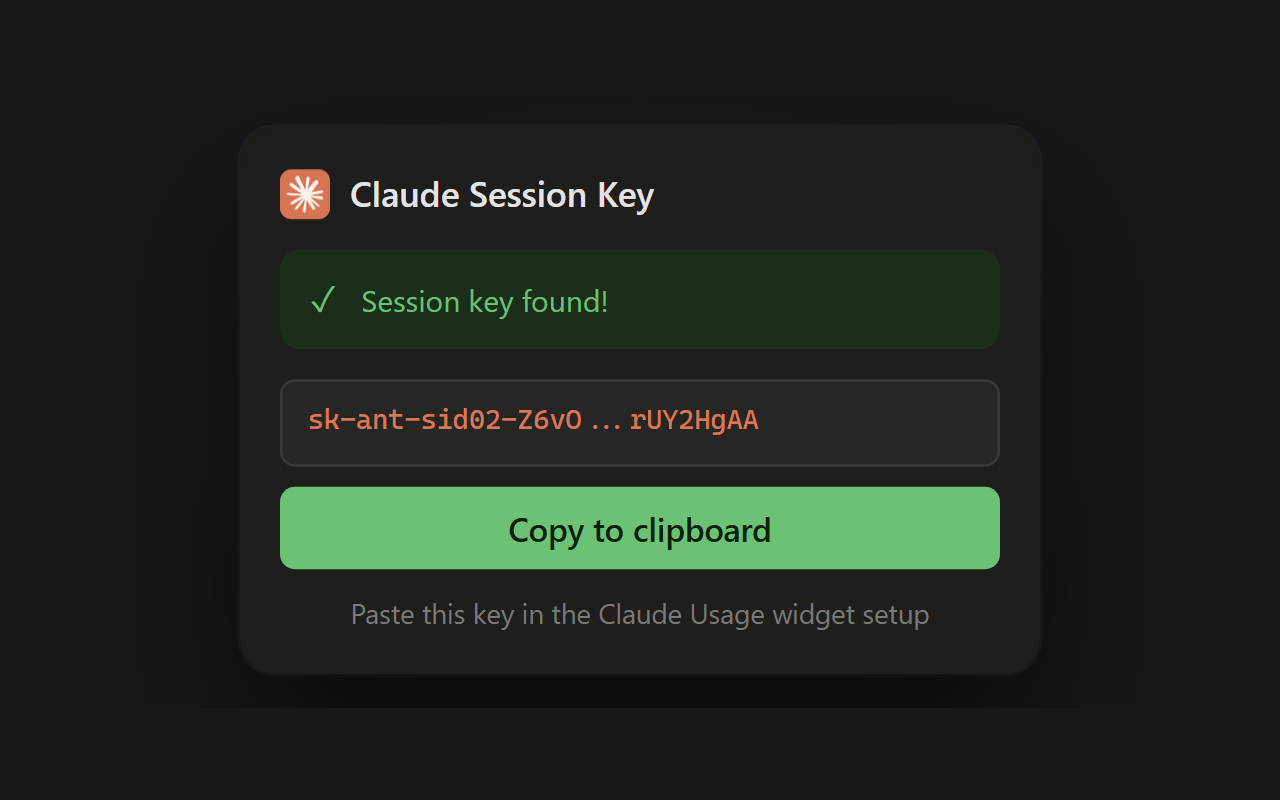
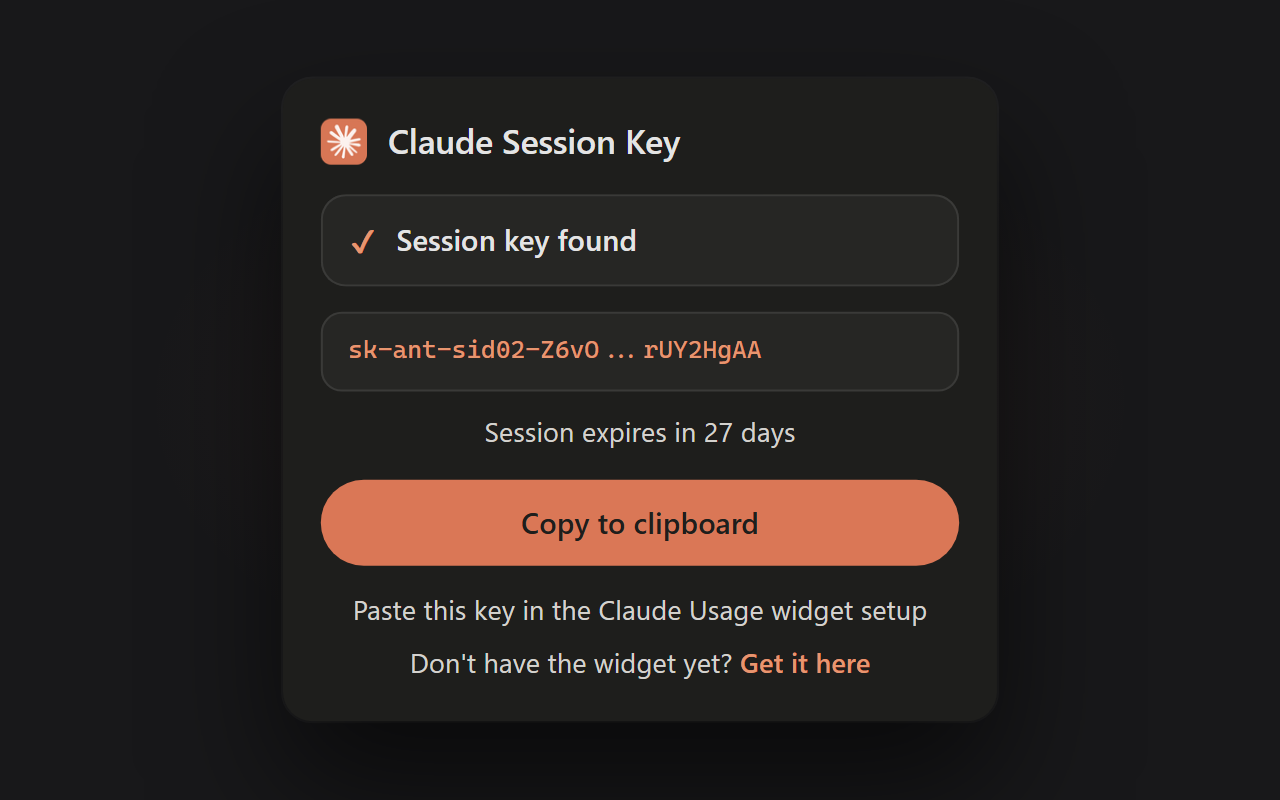
feat(extension): readable text, pill buttons and the brand accent instead of green
The popup's secondary text was 11px in #7a7a78, which measured 3.9:1 against
its background: the expiry line and the two hints were hard to read. They are
13px in a near white that measures 11:1, the status line is 14px, and the title
16px. The green success block and green button were outside the product's
colours: the found state is now a quiet surface with the accent on its mark,
and the buttons are pills in the accent with dark text, since white on #DA7756
measures 3.1:1 and dark 5.4:1. The link to the widget follows the accent too,
and no longer breaks mid-word in Japanese.

The popup window's own corners are drawn by Chrome and cannot be rounded from
the page; everything inside it is.

The setup guide gets the same treatment: the install button is a pill in the
accent, and the recommended card, its tag and its icon lose the green.

The store screenshot is rendered again from the new styles, with the expiry
line and the widget link it was missing, at a zoom that leaves a margin now
that the popup is taller. Extension version 1.2.0.

diff --git a/extension/popup.css b/extension/popup.css
@@ -6,18 +6,19 @@
   --bg3:       #2c2c2a;
   --bar:       #3a3a38;
   --fg:        #e4e4e4;
-  --dim:       #9a9a98;
-  --dimmer:    #7a7a78;
+  /* Secondary text. Near white rather than grey: at the popup's small sizes
+     the old #7a7a78 measured 3.9:1 against the background, below what small
+     text needs to be read comfortably. This is 11:1. */
+  --soft:      #d4d2ce;
+  /* The brand accent, and a lighter step of it for text on the dark ground
+     (the base accent measures 5.4:1 there, the lighter one 7.1:1). */
   --accent:    #DA7756;
-  --accent-hv: #E08060;
-  --green:     #6BC275;
-  --green-hv:  #7ED48A;
-  --green-dk:  #0d1f0d;
-  --blue:      #5BA8C8;
+  --accent-hv: #E48A69;
+  --accent-tx: #E8956F;
   --red:       #E85858;
   --orange:    #E8A838;
-  --radius-lg: 8px;
-  --radius-md: 6px;
+  --radius-lg: 12px;
+  --radius-md: 10px;
 }
 
 * { margin: 0; padding: 0; box-sizing: border-box; }
@@ -25,43 +26,47 @@
 html { color-scheme: dark; }
 
 body {
-  width: 320px;
+  width: 340px;
   font-family: 'Segoe UI', system-ui, -apple-system, sans-serif;
   background: var(--bg);
   color: var(--fg);
-  padding: 16px;
-  line-height: 1.5;
+  padding: 18px;
+  line-height: 1.45;
 }
 
 h1 {
-  font-size: 14px;
+  font-size: 16px;
   font-weight: 600;
-  margin-bottom: 12px;
+  margin-bottom: 14px;
   display: flex;
   align-items: center;
-  gap: 8px;
+  gap: 10px;
 }
-h1 img { width: 20px; height: 20px; display: block; }
+h1 img { width: 22px; height: 22px; display: block; }
 
 .status {
-  font-size: 12px;
-  padding: 10px 12px;
+  font-size: 14px;
+  font-weight: 500;
+  padding: 11px 14px;
   border-radius: var(--radius-lg);
   margin-bottom: 12px;
   display: flex;
   align-items: center;
   gap: 10px;
-  min-height: 40px;
+  min-height: 44px;
 }
-.status.loading  { background: #2a2a28; color: var(--dim); }
-.status.success  { background: #1a2e1a; color: var(--green); }
-.status.error    { background: #2e1a1a; color: var(--red); }
+.status.loading  { background: var(--bg3); color: var(--soft); }
+/* Found: a quiet surface with the accent on the mark, not a green block. */
+.status.success  { background: var(--bg2); color: var(--fg);
+                   box-shadow: inset 0 0 0 1px var(--bar); }
+.status.success .status-icon { color: var(--accent-tx); }
+.status.error    { background: #2e1a1a; color: #F07A7A; }
 .status.warning  { background: #2e2a1a; color: var(--orange); }
 
 .spinner {
-  width: 14px; height: 14px;
+  width: 15px; height: 15px;
   border: 2px solid var(--bar);
-  border-top-color: var(--dim);
+  border-top-color: var(--soft);
   border-radius: 50%;
   animation: spin 0.8s linear infinite;
   flex-shrink: 0;
@@ -69,7 +74,7 @@ h1 img { width: 20px; height: 20px; display: block; }
 @keyframes spin { to { transform: rotate(360deg); } }
 
 .status-icon {
-  font-size: 14px;
+  font-size: 15px;
   line-height: 1;
   flex-shrink: 0;
 }
@@ -78,57 +83,66 @@ h1 img { width: 20px; height: 20px; display: block; }
   background: var(--bg2);
   border: 1px solid var(--bar);
   border-radius: var(--radius-md);
-  padding: 8px 10px;
+  padding: 9px 12px;
   font-family: 'Cascadia Code', 'Consolas', 'Courier New', monospace;
-  font-size: 11px;
-  color: var(--accent);
+  font-size: 12px;
+  color: var(--accent-tx);
   word-break: break-all;
-  max-height: 60px;
+  max-height: 64px;
   overflow-y: auto;
-  margin-bottom: 8px;
+  margin-bottom: 10px;
   user-select: all;
   -webkit-user-select: all;
 }
 
 .expiry-note {
-  font-size: 11px;
-  color: var(--dimmer);
-  margin-bottom: 12px;
+  font-size: 13px;
+  color: var(--soft);
+  margin-bottom: 14px;
   text-align: center;
 }
 .expiry-note.warning { color: var(--orange); }
-.expiry-note.error   { color: var(--red); }
+.expiry-note.error   { color: #F07A7A; }
 
+/* Pills, the same shape as the widget's own buttons. */
 .btn {
   display: block;
   width: 100%;
-  padding: 8px;
+  padding: 11px 16px;
   border: none;
-  border-radius: var(--radius-md);
+  border-radius: 999px;
   font-family: inherit;
-  font-size: 13px;
+  font-size: 14px;
   font-weight: 600;
   cursor: pointer;
-  transition: background 0.15s, transform 0.08s;
+  transition: background 0.15s, color 0.15s, transform 0.08s;
 }
 .btn:active { transform: scale(0.98); }
-.btn:focus-visible { outline: 2px solid var(--blue); outline-offset: 2px; }
+/* The popup focuses the copy button as it opens, so the focus mark is on
+   screen from the first frame: a soft halo reads as part of the pill, where
+   an offset outline drew a second ring around it. */
+.btn:focus-visible { outline: none;
+                     box-shadow: 0 0 0 3px rgba(232, 149, 111, 0.35); }
 
-.btn-primary { background: var(--accent); color: var(--bg); }
-.btn-primary:hover { background: var(--accent-hv); }
-
-.btn-copy { background: var(--green); color: var(--green-dk); }
-.btn-copy:hover { background: var(--green-hv); }
-.btn-copy.copied { background: var(--bar); color: var(--green); }
+/* Dark text on the accent: white on #DA7756 measures 3.1:1, dark 5.4:1. */
+.btn-primary,
+.btn-copy { background: var(--accent); color: var(--bg); }
+.btn-primary:hover,
+.btn-copy:hover { background: var(--accent-hv); }
+.btn-copy.copied { background: var(--bg3); color: var(--accent-tx);
+                   box-shadow: inset 0 0 0 1px var(--bar); }
+.btn-copy.copied:focus-visible { box-shadow: inset 0 0 0 1px var(--bar),
+                                 0 0 0 3px rgba(232, 149, 111, 0.35); }
 
 .hint {
-  font-size: 11px;
-  color: var(--dimmer);
-  margin-top: 10px;
+  font-size: 13px;
+  color: var(--soft);
+  margin-top: 12px;
   text-align: center;
 }
-.hint + .hint { margin-top: 4px; }
-.hint a { color: var(--blue); text-decoration: none; }
+.hint + .hint { margin-top: 6px; }
+.hint a { color: var(--accent-tx); text-decoration: none; font-weight: 600;
+          white-space: nowrap; }  /* in Japanese it broke mid-word */
 .hint a:hover { text-decoration: underline; }
 
 kbd {
@@ -138,7 +152,7 @@ kbd {
   border-radius: 4px;
   padding: 1px 5px;
   font-family: 'Cascadia Code', 'Consolas', monospace;
-  font-size: 10px;
+  font-size: 11px;
   color: var(--fg);
 }
 

diff --git a/guide/session-key-guide.html b/guide/session-key-guide.html
@@ -78,7 +78,7 @@
     transition: border-color 0.2s;
   }
   .method:hover { border-color: #555; }
-  .method.recommended { border-color: var(--green); }
+  .method.recommended { border-color: rgba(218, 119, 86, 0.55); }
   .method-header {
     padding: 14px 18px;
     cursor: pointer;
@@ -99,7 +99,7 @@
     font-size: 16px;
     flex-shrink: 0;
   }
-  .method-icon.chrome { background: #2a3a2a; color: var(--green); }
+  .method-icon.chrome { background: #33241e; color: #E8956F; }
   .method-icon.settings { background: #2a2a3a; color: var(--blue); }
   .method-icon.devtools { background: #3a2a2a; color: var(--accent); }
   .method-info { flex: 1; }
@@ -112,7 +112,7 @@
     border-radius: 10px;
     flex-shrink: 0;
   }
-  .tag-easy { background: #1a2e1a; color: var(--green); }
+  .tag-easy { background: #33241e; color: #E8956F; }
   .tag-medium { background: #2e2a1a; color: #E8A838; }
   .tag-advanced { background: #2e1a1a; color: var(--accent); }
   .chevron {
@@ -161,11 +161,11 @@
 
   .btn {
     display: inline-block;
-    padding: 8px 18px;
+    padding: 10px 24px;
     border: none;
-    border-radius: 8px;
+    border-radius: 999px;
     font-family: 'Segoe UI', sans-serif;
-    font-size: 13px;
+    font-size: 14px;
     font-weight: 600;
     cursor: pointer;
     transition: background 0.15s, transform 0.1s;
@@ -174,8 +174,9 @@
   }
   .btn:active { transform: scale(0.97); }
   a.btn, .btn { text-decoration: none; }
-  .btn-green, a.btn-green { background: var(--green); color: #0d1f0d !important; }
-  .btn-green:hover { background: #7ED48A; }
+  /* Dark text on the accent: white on #DA7756 measures 3.1:1, dark 5.4:1. */
+  .btn-accent, a.btn-accent { background: #DA7756; color: #1e1e1c !important; }
+  .btn-accent:hover { background: #E48A69; }
 
   .note {
     font-size: 12px;
@@ -193,7 +194,7 @@
     color: var(--dim);
     margin-bottom: 20px;
   }
-  .browser-detected span { color: var(--green); font-weight: 600; }
+  .browser-detected span { color: #E8956F; font-weight: 600; }
 
   .alt-note {
     margin: 10px auto 0;
@@ -260,7 +261,7 @@
           <span data-i18n="m1_s1">Install the <strong>Claude Session Key</strong> extension:</span><br>
           <a id="extensionLink"
              href="https://chromewebstore.google.com/detail/claude-session-key/ppofmhjkjfinjpidlidepeonimpjmadj"
-             class="btn btn-green" data-i18n="m1_btn" target="_blank" rel="noopener">Install Extension</a>
+             class="btn btn-accent" data-i18n="m1_btn" target="_blank" rel="noopener">Install Extension</a>
         </div>
       </div>
       <div class="step">

diff --git a/scripts/render-extension-screenshot.py b/scripts/render-extension-screenshot.py
@@ -25,8 +25,10 @@ EDGE_CANDIDATES = [
 
 # Final canvas (Chrome Web Store accepts 1280x800 or 640x400).
 W, H = 1280, 800
-# Popup native width is 320 px. Zoom 2.5 = 800 px wide, ~85% of frame.
-ZOOM = 2.5
+# Popup native width is 340 px. It grew taller in 1.2.0 (larger text, the
+# expiry line and the widget link), and at 2.5 it touched the frame's top
+# and bottom edges; 2.1 leaves a margin all round.
+ZOOM = 2.1
 
 
 def find_edge():
@@ -50,19 +52,22 @@ def main():
     icon_url = file_url(os.path.join(EXT_DIR, 'icon48.png'))
 
     # Mockup popup HTML with the success state visible. Mirrors what
-    # popup.js writes when chrome.cookies.get returns the key.
+    # popup.js writes when chrome.cookies.get returns the key, strings taken
+    # from _locales/en, so the store shows the popup as it really opens.
     popup_inner = f'''
     <h1>
       <img src="{icon_url}" alt="">
       <span>Claude Session Key</span>
     </h1>
     <div class="status success" role="status" aria-live="polite">
-      <span class="status-icon">✓</span>
-      <span>Session key found!</span>
+      <span class="status-icon">✔</span>
+      <span>Session key found</span>
     </div>
     <div class="key-box" aria-label="Session key">sk-ant-sid02-Z6vO...rUY2HgAA</div>
+    <div class="expiry-note">Session expires in 27 days</div>
     <button type="button" class="btn btn-copy">Copy to clipboard</button>
     <div class="hint">Paste this key in the Claude Usage widget setup</div>
+    <div class="hint">Don't have the widget yet? <a href="#">Get it here</a></div>
     '''
 
     page = f'''<!DOCTYPE html>
@@ -90,10 +95,10 @@ html, body {{
 
 .popup {{
   /* Reset the popup's natural body padding/width via a wrapper. */
-  width: 320px;
+  width: 340px;
   background: var(--bg);
   color: var(--fg);
-  padding: 16px;
+  padding: 18px;
   border-radius: 14px;
   box-shadow:
     0 30px 60px rgba(0, 0, 0, 0.6),
@@ -102,7 +107,6 @@ html, body {{
   transform-origin: center;
 }}
 
-.popup h1 {{ margin-bottom: 12px; }}
 </style></head>
 <body><div class="popup">{popup_inner}</div></body></html>
 '''
